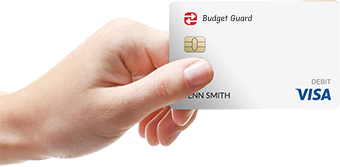
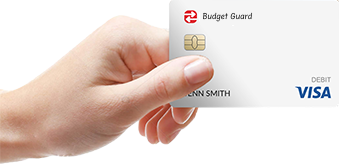
homepage close to completion

diff --git a/client/src/veiws/HomePage.jsx b/client/src/veiws/HomePage.jsx
@@ -1,6 +1,6 @@
 import React from 'react'
 import NavBar from '../components/NavBar'
-import main_banner from '../images/budget-banner2.png';
+import main_banner from '../images/budget-banner3.png';
 import balances from '../images/Balances.png';
 import bills from '../images/Bills.png';
 import budget from '../images/Budget.png';
@@ -12,12 +12,16 @@ import car3 from '../images/car3.png';
 import item_1 from '../images/item1.png';
 import item_2 from '../images/item2.png';
 import item_3 from '../images/item3.png';
+import out_ban1 from '../images/out-ban1.png';
+import out_ban2 from '../images/out-ban2.png';
+import out_ban3 from '../images/out-ban3.png';
 import Card from '@mui/material/Modal';
 import Container from '@mui/material/Container';
 import Modal from '@mui/material/Modal';
 import Stack from '@mui/material/Modal';
 
 const HomePage = (props) => {
+
   return (
     <div>
       <NavBar theme={props.theme} setTheme={props.setTheme} />
@@ -28,48 +32,57 @@ const HomePage = (props) => {
       <img src={main_banner} alt={"main_banner"} className="img-fluid" />
 
       {/* Second Banner Promotion */}
-      <div className="mt-5">
-        <div className="d-flex justify-content-between">
-          <img src={cardleft} alt={"cardleft"} className="img-fluid" />
-          <div className="text-center">
-            <h2>Introducing Joint Budgetting Plans</h2>
-            <p>Get in sync with your partner.</p>
+      <div id="second-banner" className="mt-5">
+        <div className="text-center">
+          <h2>Introducing Joint Budgetting Plans</h2>
+          <p>Get in sync with your partner.</p>
+        </div>
+        <div id="second-banner-img" className="d-flex justify-content-between gap-5 mt-5">
+          <img src={cardleft} alt={"cardleft"} className="img-fluid mb-5" />
+          <div>
+          <button class="btn">Get Started Now</button>
           </div>
           <img src={cardright} alt={"cardright"} className="img-fluid" />
         </div>
       </div>
 
-      {/* Third Banner Carasoul */}
-      <div id="carouselExample" class="carousel slide">
-        <div class="carousel-inner">
-          <div class="carousel-item active">
-            <img src={car1} className="d-block w-100" alt={car1} />
+
+      {/* Indicator Carasoul */}
+      <div id="carouselExampleIndicators" className="carousel slide mt-5 mb-4">
+        <div className="carousel-indicators">
+          <button type="button" data-bs-target="#carouselExampleIndicators" data-bs-slide-to="0" className="active" aria-current="true" aria-label="Slide 1"></button>
+          <button type="button" data-bs-target="#carouselExampleIndicators" data-bs-slide-to="1" aria-label="Slide 2"></button>
+          <button type="button" data-bs-target="#carouselExampleIndicators" data-bs-slide-to="2" aria-label="Slide 3"></button>
+        </div>
+        <div className="carousel-inner">
+          <div className="carousel-item active">
+            <img src={out_ban1} className="d-block w-100" alt={out_ban1} />
           </div>
-          <div class="carousel-item">
-            <img src={car2} className="d-block w-100" alt={car2} />
+          <div className="carousel-item">
+            <img src={out_ban2} className="d-block w-100" alt={out_ban2} />
           </div>
-          <div class="carousel-item">
-            <img src={car3} className="d-block w-100" alt={car3} />
+          <div className="carousel-item">
+            <img src={out_ban3} className="d-block w-100" alt={out_ban3} />
           </div>
         </div>
-        <button class="carousel-control-prev" type="button" data-bs-target="#carouselExample" data-bs-slide="prev">
-          <span class="carousel-control-prev-icon" aria-hidden="true"></span>
-          <span class="visually-hidden">Previous</span>
+        <button className="carousel-control-prev" type="button" data-bs-target="#carouselExampleIndicators" data-bs-slide="prev">
+          <span className="carousel-control-prev-icon" aria-hidden="true"></span>
+          <span className="visually-hidden">Previous</span>
         </button>
-        <button class="carousel-control-next" type="button" data-bs-target="#carouselExample" data-bs-slide="next">
-          <span class="carousel-control-next-icon" aria-hidden="true"></span>
-          <span class="visually-hidden">Next</span>
+        <button className="carousel-control-next" type="button" data-bs-target="#carouselExampleIndicators" data-bs-slide="next">
+          <span className="carousel-control-next-icon" aria-hidden="true"></span>
+          <span className="visually-hidden">Next</span>
         </button>
       </div>
 
-      {/* SAMPLE ITEMS */}
+      {/* Sample Items */}
       <div>
-        <div id="icons-1">
+        <div id="icons-1" className="d-flex gap-5 justify-content-center mt-5 mb-4">
           <img src={item_1} alt={"item_1"} />
           <img src={item_2} alt={"item_2"} />
           <img src={item_3} alt={"item_3"} />
         </div>
-        <div className="text-center">
+        <div className="text-center mb-5">
           <h2>Take Full Control Of Your Finances</h2>
           <p>Strike the perfect balance</p>
         </div>
@@ -80,25 +93,26 @@ const HomePage = (props) => {
         </div>
       </div>
 
-      <div id="carouselExample" class="carousel slide">
-        <div class="carousel-inner">
-          <div class="carousel-item active">
+      {/* Interval Timed Carousel */}
+      <div id="carouselExampleInterval" className="carousel slide mt-5 mb-4" data-bs-ride="carousel">
+        <div className="carousel-inner">
+          <div className="carousel-item active" data-bs-interval="2000">
             <img src={car1} className="d-block w-100" alt={car1} />
           </div>
-          <div class="carousel-item">
+          <div className="carousel-item" data-bs-interval="2000">
             <img src={car2} className="d-block w-100" alt={car2} />
           </div>
-          <div class="carousel-item">
+          <div className="carousel-item" data-bs-interval="2000">
             <img src={car3} className="d-block w-100" alt={car3} />
           </div>
         </div>
-        <button class="carousel-control-prev" type="button" data-bs-target="#carouselExample" data-bs-slide="prev">
-          <span class="carousel-control-prev-icon" aria-hidden="true"></span>
-          <span class="visually-hidden">Previous</span>
+        <button className="carousel-control-prev" type="button" data-bs-target="#carouselExampleInterval" data-bs-slide="prev">
+          <span className="carousel-control-prev-icon" aria-hidden="true"></span>
+          <span className="visually-hidden">Previous</span>
         </button>
-        <button class="carousel-control-next" type="button" data-bs-target="#carouselExample" data-bs-slide="next">
-          <span class="carousel-control-next-icon" aria-hidden="true"></span>
-          <span class="visually-hidden">Next</span>
+        <button className="carousel-control-next" type="button" data-bs-target="#carouselExampleInterval" data-bs-slide="next">
+          <span className="carousel-control-next-icon" aria-hidden="true"></span>
+          <span className="visually-hidden">Next</span>
         </button>
       </div>
 

diff --git a/client/src/index.css b/client/src/index.css
@@ -15,3 +15,63 @@ code {
 * {
   font-family: 'Helvetica';
 }
+
+#icons-1 img {
+  width: 50px;
+  height: 50px;
+}
+
+#second-banner {
+  height: 100%;
+  margin-bottom: 50px;
+}
+
+/* Second Banner Button  */
+.btn {
+  margin-top: 30px;
+  position: relative;
+  font-size: 17px;
+  text-transform: uppercase;
+  text-decoration: none;
+  padding: 1em 2.5em;
+  display: inline-block;
+  border-radius: 6em;
+  transition: all .2s;
+  border: none;
+  font-family: inherit;
+  font-weight: 500;
+  color: black;
+  background-color: white;
+}
+
+.btn:hover {
+  transform: translateY(-3px);
+  box-shadow: 0 10px 20px rgba(0, 0, 0, 0.2);
+}
+
+.btn:active {
+  transform: translateY(-1px);
+  box-shadow: 0 5px 10px rgba(0, 0, 0, 0.2);
+}
+
+.btn::after {
+  content: "";
+  display: inline-block;
+  height: 100%;
+  width: 100%;
+  border-radius: 100px;
+  position: absolute;
+  top: 0;
+  left: 0;
+  z-index: -1;
+  transition: all .4s;
+}
+
+.btn::after {
+  background-color: #fff;
+}
+
+.btn:hover::after {
+  transform: scaleX(1.4) scaleY(1.6);
+  opacity: 0;
+}

diff --git a/client/src/index.js b/client/src/index.js
@@ -5,6 +5,7 @@ import App from './App';
 import reportWebVitals from './reportWebVitals';
 import { BrowserRouter } from 'react-router-dom'
 import "bootstrap/dist/css/bootstrap.min.css"
+import "bootstrap/dist/js/bootstrap.bundle.min";
 
 const root = ReactDOM.createRoot(document.getElementById('root'));
 root.render(
